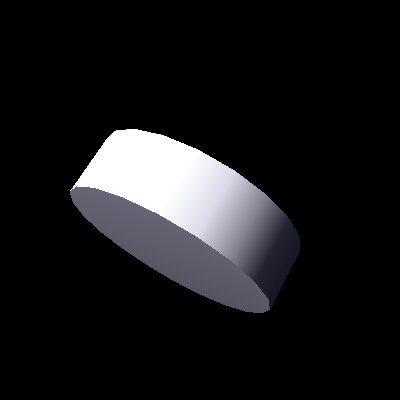
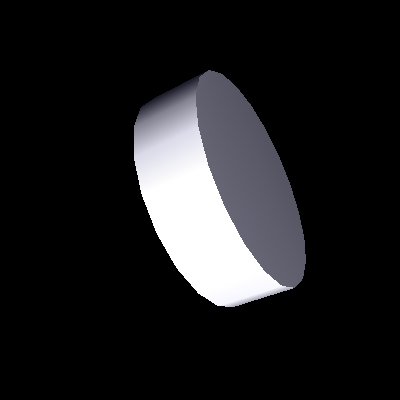
try to get window size working...

Changed region(s): [[0.18, 0.18, 0.78, 0.78]]

diff --git a/physical/__init__.py b/physical/__init__.py
@@ -829,7 +829,8 @@ class __display(object):
     def __drawstuff(self):
         # we are sloppy and reset the viewport to window size each
         # time, and reset the perspective each time as well.
-        gl.glViewport(0,0,self.__windowsize[0],self.__windowsize[1])
+        ws = camera.windowsize
+        gl.glViewport(0,0,ws[0],ws[1])
         if self.__am_slow:
             gl.glClearColor(0.2,0.,0.,1.)
         else:
@@ -854,10 +855,6 @@ class __display(object):
             gl.glMatrixMode(gl.GL_PROJECTION)
             gl.glPushMatrix()
             gl.glLoadIdentity()
-
-            # This sets up an orthographic projection, appropriate for 2D
-            # material.
-            #gl.glOrtho(0,self.__windowsize[0], self.__windowsize[1], 0,-1,1)
 
             # set up a temporary and blank model matrix
             gl.glMatrixMode(gl.GL_MODELVIEW)
@@ -886,7 +883,8 @@ class __display(object):
 
         gl.glMatrixMode(gl.GL_PROJECTION)
         gl.glLoadIdentity()
-        glu.gluPerspective(40.,self.__windowsize[0]/self.__windowsize[1],1.,1000.)
+        ws = camera.windowsize
+        glu.gluPerspective(40., ws[0]/ws[1], 1., 1000.)
         gl.glMatrixMode(gl.GL_MODELVIEW)
         gl.glLoadIdentity()
         gl.glPushMatrix()
@@ -925,8 +923,7 @@ class __display(object):
         from PIL import Image
         self.__drawstuff()
         gl.glPixelStorei(gl.GL_PACK_ALIGNMENT, 1)
-        width = self.__windowsize[0]
-        height = self.__windowsize[1]
+        width, height = camera.windowsize
         data = gl.glReadPixels(0, 0, width, height, gl.GL_RGB, gl.GL_UNSIGNED_BYTE)
         Image.frombuffer("RGB", (width, height), data, 'raw', 'RGB', 0, -1).save(fname)
 
@@ -984,32 +981,31 @@ class __display(object):
         xhat = camera.up.cross(position(camera.center) - position(camera.position)).normalized()
         if self.__am_rotating:
             direction = (dy*xhat - dx*yhat).normalized()
-            angle = 3*math.sqrt(dx**2 + dy**2)/self.__windowsize[1]
+            angle = 3*math.sqrt(dx**2 + dy**2)/camera.windowsize[1]
             R = _rotation(angle, direction)
             camera.position = R.rotate(position(camera.position))
             camera.up = R.rotate(camera.up)
             self.__glutPostRedisplay()
         elif self.__am_translating:
-            move = 0.6*(dx*xhat + dy*yhat)/self.__windowsize[1]*abs(position(camera.position) - position(camera.center))
+            move = 0.6*(dx*xhat + dy*yhat)/camera.windowsize[1]*abs(position(camera.position) - position(camera.center))
             camera.position = position(camera.position) + move
             camera.center = position(camera.center) + move
             self.__glutPostRedisplay()
     def __onReshape(self, width, height):
-        self.__windowsize = (width, height)
+        camera.windowsize = (width, height)
         self.__glutPostRedisplay()
 
     def init(self):
         if not self.__is_initialized:
             self.__is_initialized = True
-            self.__windowsize = (400,400)
+            ws = camera.windowsize
             if os.environ.get('PYOPENGL_PLATFORM','') == 'osmesa':
                 import OpenGL.arrays as glarrays
                 import OpenGL.osmesa as osmesa
                 ctx = osmesa.OSMesaCreateContext(gl.GL_RGBA, None)
-                self.__buf = glarrays.GLubyteArray.zeros((self.__windowsize[1], self.__windowsize[0], 4))
+                self.__buf = glarrays.GLubyteArray.zeros((camera.windowsize[1], camera.windowsize[0], 4))
                 osmesa.OSMesaMakeCurrent(ctx, self.__buf, gl.GL_UNSIGNED_BYTE,
-                                         self.__windowsize[0],
-                                         self.__windowsize[1])
+                                         ws[0], ws[1])
                 def nullpost():
                     pass
                 self.__glutPostRedisplay = nullpost
@@ -1017,7 +1013,7 @@ class __display(object):
             else:
                 sys.argv = glut.glutInit(sys.argv)
                 glut.glutInitDisplayMode(glut.GLUT_DOUBLE | glut.GLUT_RGBA | glut.GLUT_DEPTH)
-                glut.glutInitWindowSize(self.__windowsize[0],self.__windowsize[1])
+                glut.glutInitWindowSize(ws[0],ws[1])
                 glut.glutCreateWindow(self.__name)
                 self.__glutPostRedisplay = glut.glutPostRedisplay
                 self.__glutMainLoopEvent = glut.glutMainLoopEvent
@@ -1102,6 +1098,7 @@ class Camera(object):
     __center = vector(0,0,0)*meter
     __position = vector(0,10,0)*meter
     __up = vector(0,0,1)*meter
+    __windowsize = (400,400)
     def __str__(self):
         return str('{} {} {}'.format(self.__center, self.__position, self.__up))
     @property
@@ -1173,6 +1170,23 @@ class Camera(object):
             self.__position = vector(0,10,0)*meter
             return
         self.__position = position(self.__center) + v*dr/abs(dr)
+
+    @property
+    def windowsize(self):
+        '''the size of the window in pixels
+
+        The windowsize can be assigned to, but only prior to creating
+        any objects.
+
+        .. testcode :: windowsize
+
+           camera.windowsize = (200,200)
+
+        '''
+        return self.__windowsize
+    @windowsize.setter
+    def windowsize(self,v):
+        self.__windowsize = v
 
 camera = Camera()
 __x = __display()
@@ -1257,6 +1271,11 @@ def helix(pos1, pos2,
     Raises:
         Exception: the dimensions are not distances
 
+    .. testsetup :: helix
+
+        from physical import *
+        camera.windowsize = (200,200)
+
     .. testcode :: helix
 
         s1 = sphere(vector(-1,0,0)*meter, color=color.red)
@@ -1267,6 +1286,7 @@ def helix(pos1, pos2,
     .. testcode :: helix
         :hide:
 
+        camera.windowsize = (200,200)
         camera.range = 7*meter
         savepng('figures/helix.png')
     """
